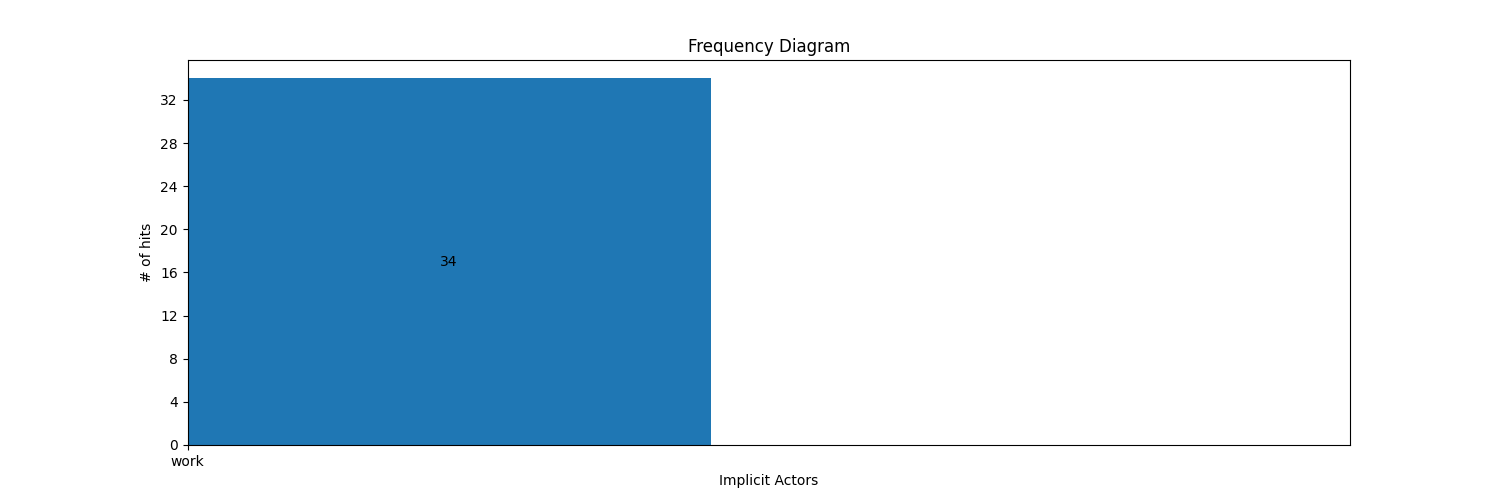
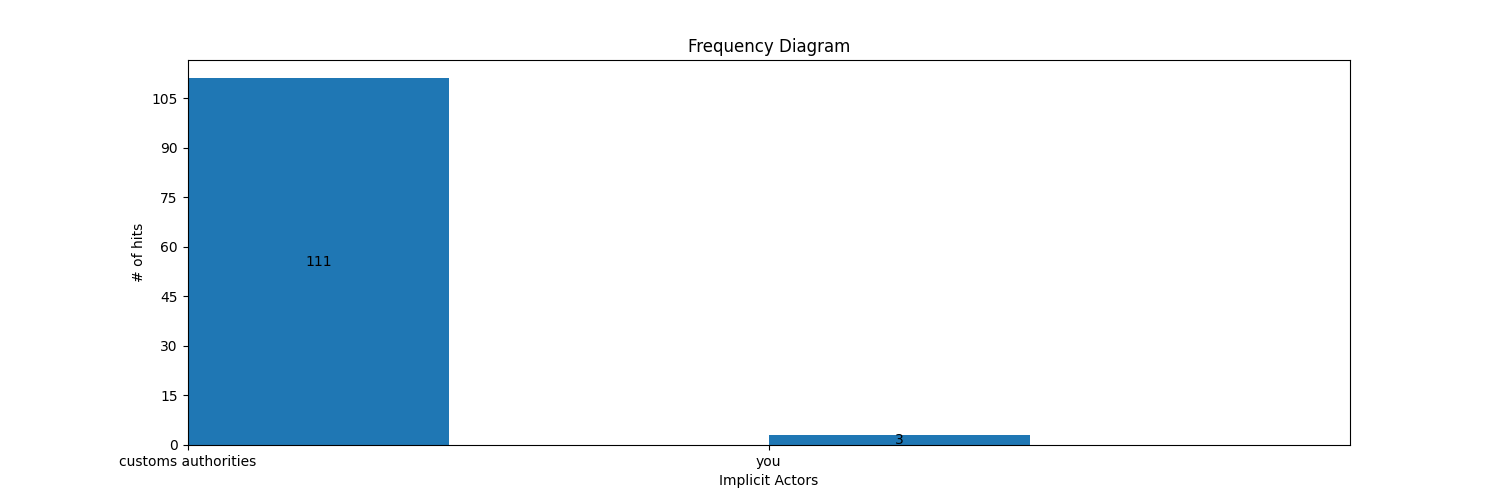
Minor cleanup searching for bugs

diff --git a/src/presentation/views.py b/src/presentation/views.py
@@ -11,7 +11,7 @@ from django.http import HttpResponseRedirect
 from django.shortcuts import render
 
 from explicit_information.definitions import find_definitions, get_annotations, \
-    any_definition_in_text, get_dictionary
+    any_definition_in_text, get_dictionary, check_more_definitions_in_text
 from explicit_information.relations import noun_relations, build_tree, get_hyponymy, get_meronymy, get_synonymy
 from implicit_actor.ImplicitSubjectPipeline import ImplicitSubjectPipeline
 from implicit_actor.implicit_subject_pipeline_factory import create_implicit_subject_pipeline
@@ -149,7 +149,7 @@ def extract_text(url):
             old_text = paragraph.get_text().replace("\u00A0", " ")
             new_text = pipeline.apply(old_text, context + "\n\n\n\n" + old_text)  # + "\n\n\n\n" + old_text
             for c in pipeline.last_selected_candidates():
-                noun_chunk = get_noun_chunk(c)
+                noun_chunk = get_noun_chunk(c.token)
                 implicit_actor_counter[noun_chunk.text] += 1
             new_html = BeautifulSoup(new_text, 'html.parser')
             paragraph.clear()
@@ -188,9 +188,9 @@ def add_annotations_to_the_regulation(soup):
         for div in soup.find_all("div"):
             div.unwrap()
 
-    for sentence in soup.find_all("p"):
-        if check_if_article(sentence.text):
-            article = sentence.text
+    for paragraph in soup.find_all("p"):
+        if check_if_article(paragraph.text):
+            article = paragraph.text
             create_an_article(article)
 
         # for (key, value) in definitions:
@@ -205,11 +205,13 @@ def add_annotations_to_the_regulation(soup):
         definitions_in_sentence: Set[str] = set()
 
         # create copy as we will change the elements during iteration
-        for element in list(sentence.strings):
+        for element in list(paragraph.strings):
+            # <p>abc asd</p>
             text = element.text
 
             # TODO find out what this line does...
-            # if not check_more_definitions_in_text(key, sentence.text, capitalized):
+            # if check_more_definitions_in_text(key, paragraph.text, capitalized):
+            #     continue
             # sort by the starting index
             defs = sorted(any_definition_in_text(text), key=lambda x: x[2])
             start_index = 0

diff --git a/src/implicit_actor/candidate_filtering/ImperativeFilter.py b/src/implicit_actor/candidate_filtering/ImperativeFilter.py
@@ -2,7 +2,7 @@ from typing import List
 
 from spacy.lang.en import English
 
-from implicit_actor.candidate_extraction.CandidateActor import CandidateActor
+from implicit_actor.candidate_extraction.CandidateActor import CandidateActor, CandidateSource
 from implicit_actor.candidate_filtering.FilterContext import FilterContext
 from src.implicit_actor.candidate_filtering.CandidateFilter import CandidateFilter
 from src.implicit_actor.missing_subject_detection.ImplicitSubjectDetection import ImplicitSubjectType, \
@@ -20,11 +20,11 @@ class ImperativeFilter(CandidateFilter):
         Selects you if the target is an imperative.
         """
         if target.type == ImplicitSubjectType.IMPERATIVE:
-            return [c for c in candidates if c.token.text.lower() == "you"][:1] or ImperativeFilter._you_token()
+            return [c for c in candidates if c.token.text.lower() == "you"][:1] or [ImperativeFilter._you_token()]
 
         return candidates
 
     @staticmethod
-    def _you_token():
+    def _you_token() -> CandidateActor:
         nlp = English()
-        return nlp("you")[:]
+        return CandidateActor(token=nlp("you")[0], source=CandidateSource.ARTIFICIAL)

diff --git a/src/explicit_information/definitions.py b/src/explicit_information/definitions.py
@@ -139,7 +139,7 @@ def process_definitions(text):
         # search for the first verb after the definition
         first_verb = None
         for token in doc:
-            if token.text.__contains__("mean"):
+            if "mean" in token.text:
                 first_verb = token
                 break
             if token.dep_ == "ROOT" and (token.pos_ == "VERB"
@@ -238,9 +238,11 @@ def get_dictionary():
 
 
 def any_definition_in_text(text):
-    # TODO a more lenien matcher would be nice here, for example match third countries for definition third country (compare lemmata)
+    # TODO a more lenient matcher would be nice here, for example match third
+    # countries for definition third country (compare lemmata)
     definitions_in_text = set(tuple())
     starts_and_ends = set(tuple())
+
     for key, value in definitions_dict.items():
         capitalized = key[0].islower() and key.capitalize() in text
         if key in text or capitalized:

diff --git a/src/implicit_actor/insertion/DefaultInserter.py b/src/implicit_actor/insertion/DefaultInserter.py
@@ -51,8 +51,7 @@ class DefaultInserter(SpecializedInserter):
                 cleaned_subj.strip(), ctx) + insertion_point.whitespace_
         else:
             list_tokens[
-                insertion_point.i - span.start] = self.target_mapper(insertion_point.text,
-                                                                     ctx) + " by " + self.subject_mapper(
+                insertion_point.i - span.start] = insertion_point.text + " by " + self.subject_mapper(
                 cleaned_subj.strip(), ctx) + insertion_point.whitespace_
             list_tokens[target.token.i - span.start] = self.target_mapper(target.token.text,
                                                                           ctx) + target.token.whitespace_

diff --git a/src/implicit_actor/ImplicitSubjectPipeline.py b/src/implicit_actor/ImplicitSubjectPipeline.py
@@ -1,6 +1,6 @@
 import warnings
 from functools import reduce
-from typing import List, Optional, Tuple, Dict
+from typing import List, Optional, Tuple, Dict, Iterable
 
 import spacy
 from spacy.tokens import Token, Span
@@ -93,7 +93,7 @@ class ImplicitSubjectPipeline:
             print(*msg, **kwargs)
 
     def _apply_candidate_filters(self, targets: List[ImplicitSubjectDetection], candidates: List[CandidateActor],
-                                 context: Span):
+                                 context: Span) -> Iterable[CandidateActor]:
         """
         Applies the candidate filters to the candidates in a chain operation.
         """

diff --git a/src/implicit_actor/candidate_extraction/CandidateActor.py b/src/implicit_actor/candidate_extraction/CandidateActor.py
@@ -8,6 +8,7 @@ class CandidateSource(Enum):
     DEFINITION = "DEFINITION"
     PREAMBLE = "PREAMBLE"
     BODY = "BODY"
+    ARTIFICIAL = "ARTIFICIAL"
 
 
 @dataclasses.dataclass
